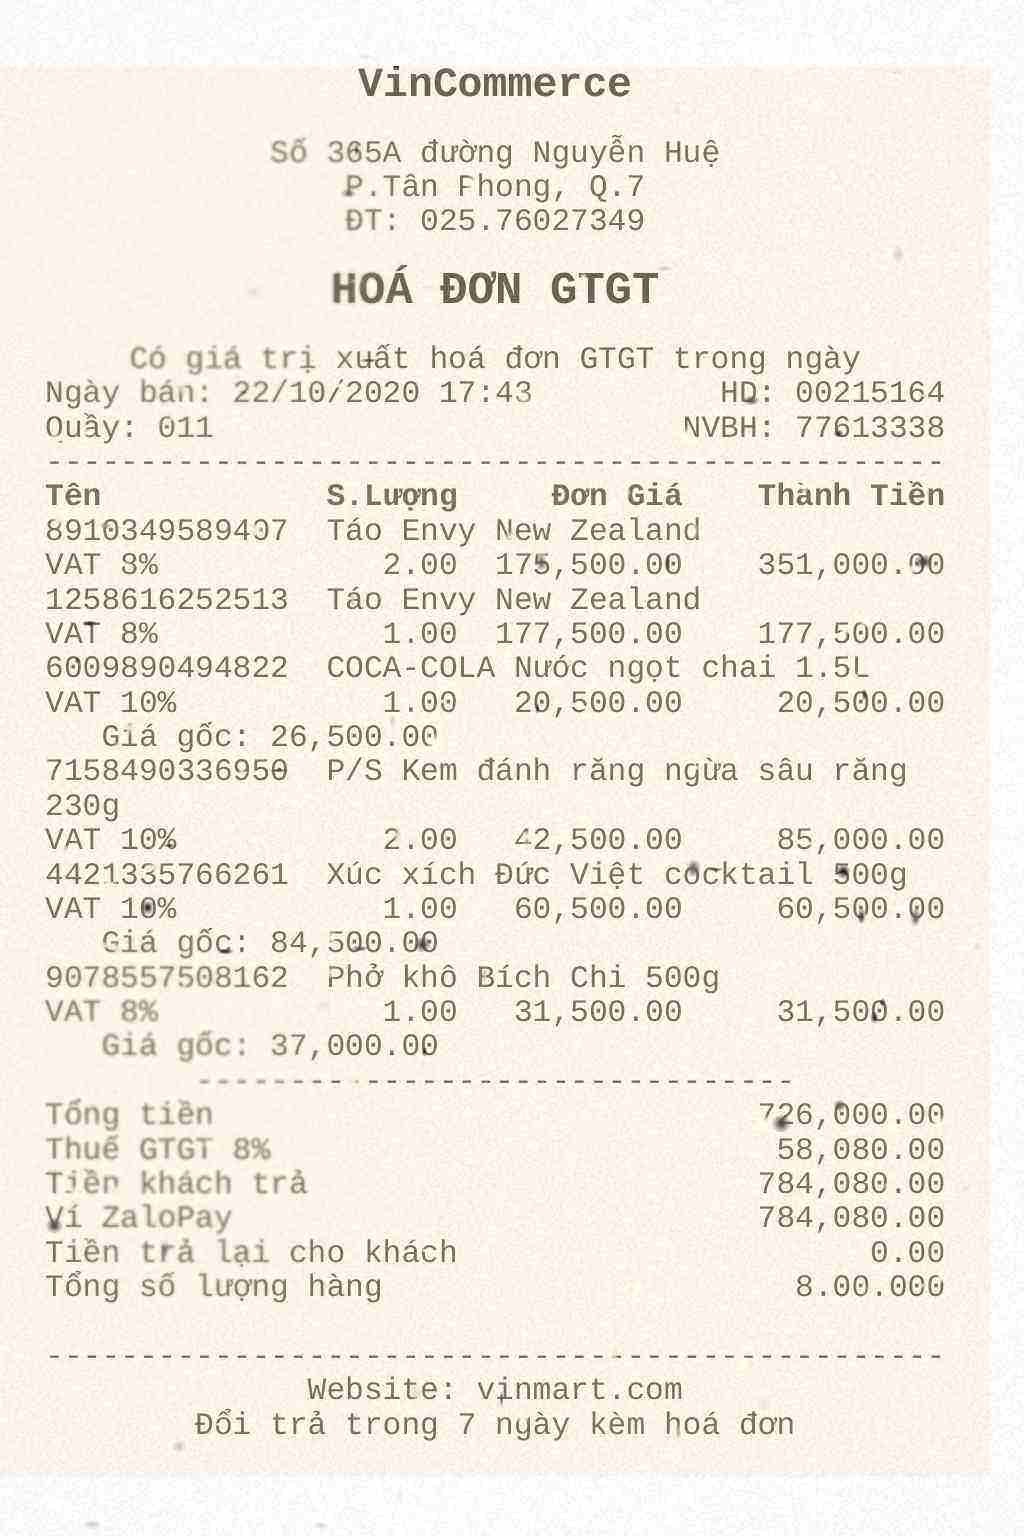
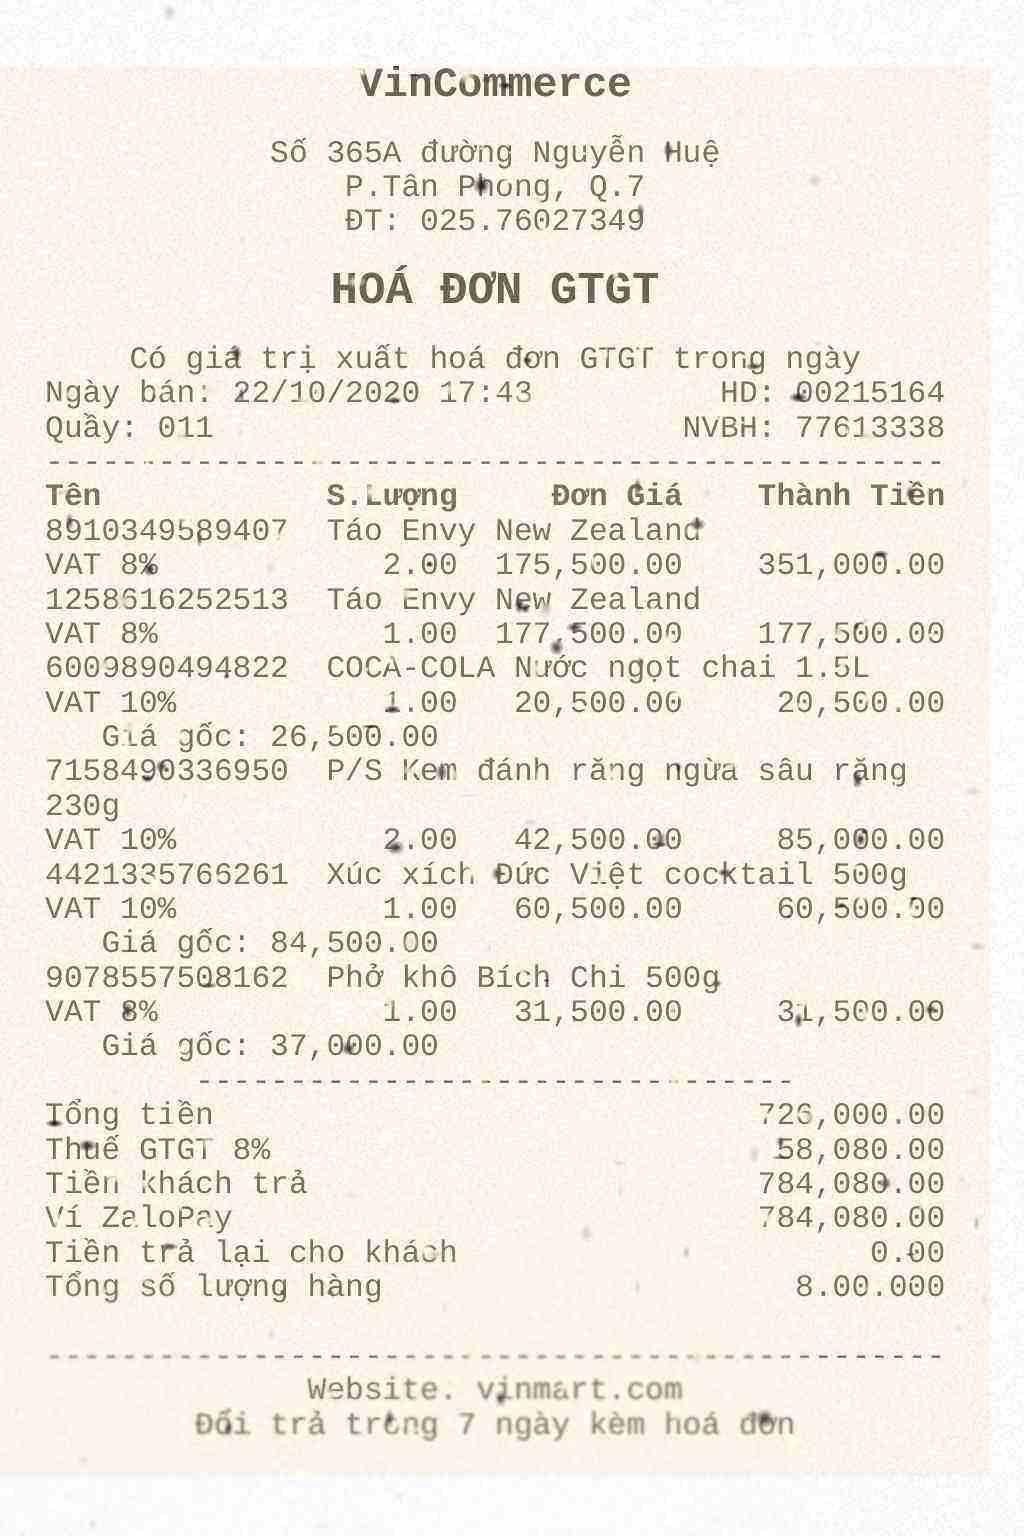
Set the speckle density to 0.35, and regenerate the set that shows it
Third pass on a constant nothing derives: 0.25, then 0.175, now 0.35 --
a bit over a third of DocCreator's dose. Written as a plain literal now
rather than `0.25 * 0.7`, because that expression described a path the
value has since left and a stale derivation reads as a reason.

What each setting costs the reference page at level 5, now in the comment
beside it so the next person tuning it starts from numbers:

    density   changed px   blots on blank paper
    1.00        190,056     236
    0.35         84,952      75
    0.25         64,905      64
    0.175        45,995      42

`data/dataset_test/` is regenerated at the new value -- all 45 images,
same fifteen layouts, same seed. That set exists to be looked at after a
visual retune, so leaving it at the previous density would have made it
show something the generator no longer does.

`tests/test_ink_degradation.py` pins the exact figure. Nothing computes
it and nothing else would notice it drifting, which is the case where an
exact pin earns its keep rather than being brittleness.

Unchanged and still open: the golden baseline is not recaptured, because
`baseline-verify`'s n16 plan cannot complete while `authorisation_letter`
fails the box-coverage invariant on genalog.

diff --git a/degradation/ink_degradation.py b/degradation/ink_degradation.py
@@ -65,11 +65,21 @@ NOISE_REGIONS_PER_COMPONENT = 2
 # and thin it. `density` is a parameter of `ink_degradation`, so a chain in
 # `rules/augmentation.yaml` can override it per scenario without editing code.
 #
-# The value was set by eye, in two passes, against a rendered A4 invoice --
-# a quarter of DocCreator's dose first, then 30% off that. It is a judgement
-# about how a Vietnamese invoice should look, not a measurement, and it is
-# written as an arithmetic expression so both steps stay legible.
-DENSITY = 0.25 * 0.7        # = 0.175
+# 0.35 is a bit over a third of DocCreator's dose. It was settled by eye
+# against a rendered A4 invoice over three passes -- 0.25, then 0.175, then
+# back up to here -- so it is a judgement about how a Vietnamese invoice
+# should look, not a measurement, and nothing derives it. What each setting
+# costs the reference page, at level 5:
+#
+#     density   changed px   blots on blank paper
+#     1.00        190,056     236
+#     0.35         84,952      75
+#     0.25         64,905      64
+#     0.175        45,995      42
+#
+# Because nothing derives it, nothing else would notice it drifting, which is
+# why `tests/test_ink_degradation.py` pins the exact value.
+DENSITY = 0.35
 # DocCreator: _sigma_gausien, the spread of the grey values drawn per region
 GREY_SIGMA = 20.0
 

diff --git a/tests/test_ink_degradation.py b/tests/test_ink_degradation.py
@@ -100,7 +100,7 @@ PROBE = textwrap.dedent("""
 
 CASES = [
     ("full", {"level": 5, "density": 1.0}),
-    ("shipped", {"level": 5, "density": 0.175}),
+    ("shipped", {"level": 5, "density": 0.35}),
     ("default", {"level": 5}),
     ("zero", {"level": 5, "density": 0.0}),
     ("level1", {"level": 1}),
@@ -128,7 +128,7 @@ def test_the_shipped_dose_is_a_fraction_of_doccreators(probe):
     drifting -- a constant tuned by looking needs a test that says what was
     looked at.
     """
-    assert probe["DENSITY"] == pytest.approx(0.175)
+    assert probe["DENSITY"] == pytest.approx(0.35)
     assert probe["per_component"] == 2
 
 

diff --git a/degradation/README.md b/degradation/README.md
@@ -106,7 +106,7 @@ renderer's output often is not — a receipt sits on a dark surface — and plac
 specks there puts white dots in mid-air. The sheet is found by thresholding,
 opening, closing and keeping the largest component.
 
-**The dose is a fraction of theirs** (`DENSITY = 0.25 * 0.7`). Two regions per
+**The dose is a fraction of theirs** (`DENSITY = 0.35`). Two regions per
 component was tuned on scanned prose, where a component is a letter. On a
 Vietnamese invoice a *dotted leader line* — the row of full stops after `Mã số
 thuế:` — makes every dot its own component, so the count measures the layout
@@ -125,9 +125,9 @@ Eight times the speckle on an invoice as on a receipt, for a reason unrelated
 to how much ink is on the page — and those are, in that order, the layouts that
 lose most recall to ageing (0.026 for `invoice_brand` against 0.487–0.521 for
 the three dotted ones; see [`data/dataset60/proof/README.md`](../data/dataset60/proof/README.md)).
-The figure was set by eye against a rendered A4 invoice, in two passes — a
-quarter first, then 30% off that — and it is written as an expression so both
-passes stay legible. `density` is a parameter, so a chain in
+The figure was settled by eye against a rendered A4 invoice over three passes —
+0.25, then 0.175, then back up to 0.35 — so nothing derives it and nothing but
+a test would notice it drifting. `density` is a parameter, so a chain in
 `rules/augmentation.yaml` can ask for more. The deeper repair — not deriving the
 dose from a component count at all — is still open.
 
